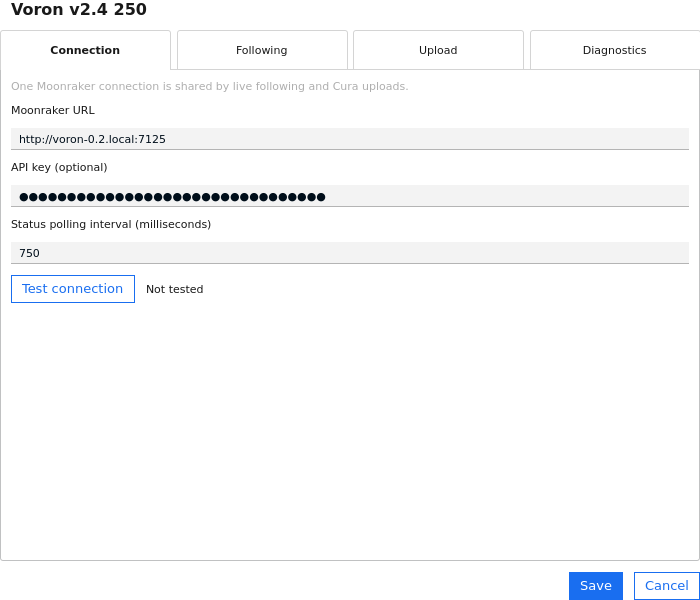
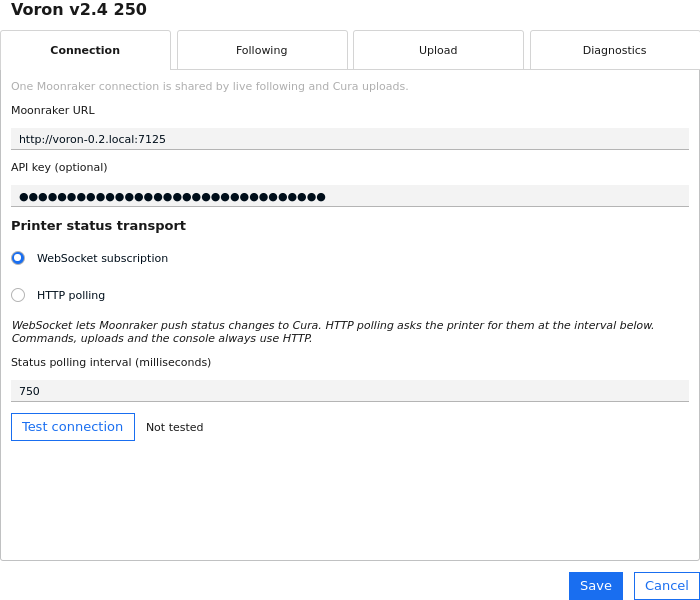
4.0.0: refresh the settings capture with the transport toggle and fix the capture seam

diff --git a/tools/capture_monitor.py b/tools/capture_monitor.py
@@ -14,6 +14,8 @@ Usage:  python3 tools/capture_monitor.py <output-directory>
 """
 from __future__ import annotations
 
+import time
+
 import os
 import sys
 
@@ -28,7 +30,7 @@ from PyQt6.QtCore import QPointF, QUrl
 from PyQt6.QtGui import QColor, QGuiApplication
 from PyQt6.QtQml import QQmlComponent, QQmlEngine
 
-from qt_runtime_support import ScriptedTransport, runtime
+from qt_runtime_support import ScriptedSocket, ScriptedTransport, runtime
 
 
 def fake_status(state="printing"):
@@ -110,7 +112,7 @@ def main():
         root = qt.load("FollowerRuntime")
         real = root.MoonrakerClient
         follower_app = qt.Application(machine_name="Voron v2.4 250")
-        with patch.object(root, "MoonrakerClient", lambda parent: real(parent, transport=transport)):
+        with patch.object(root, "MoonrakerClient", lambda parent: real(parent, transport=transport, socket=ScriptedSocket())):
             follower = qt.load("MoonrakerPrintFollower").MoonrakerPrintFollower(follower_app)
         _freeze_plugin_clocks()
         config_type = qt.load("PrinterConfig").PrinterConfig
@@ -128,7 +130,7 @@ def main():
         model = output._current.activePrinter
 
         client = follower.client
-        client._handle_http_status({"result": {"status": fake_status("printing")}}, None, client._generation)
+        client._handle_http_status({"result": {"status": fake_status("printing")}}, None, client._generation, time.monotonic())
         # The filament readouts need the slicer's total, which arrives
         # with the metadata fetch — answer it like Moonraker would.
         for request in transport.requests:
